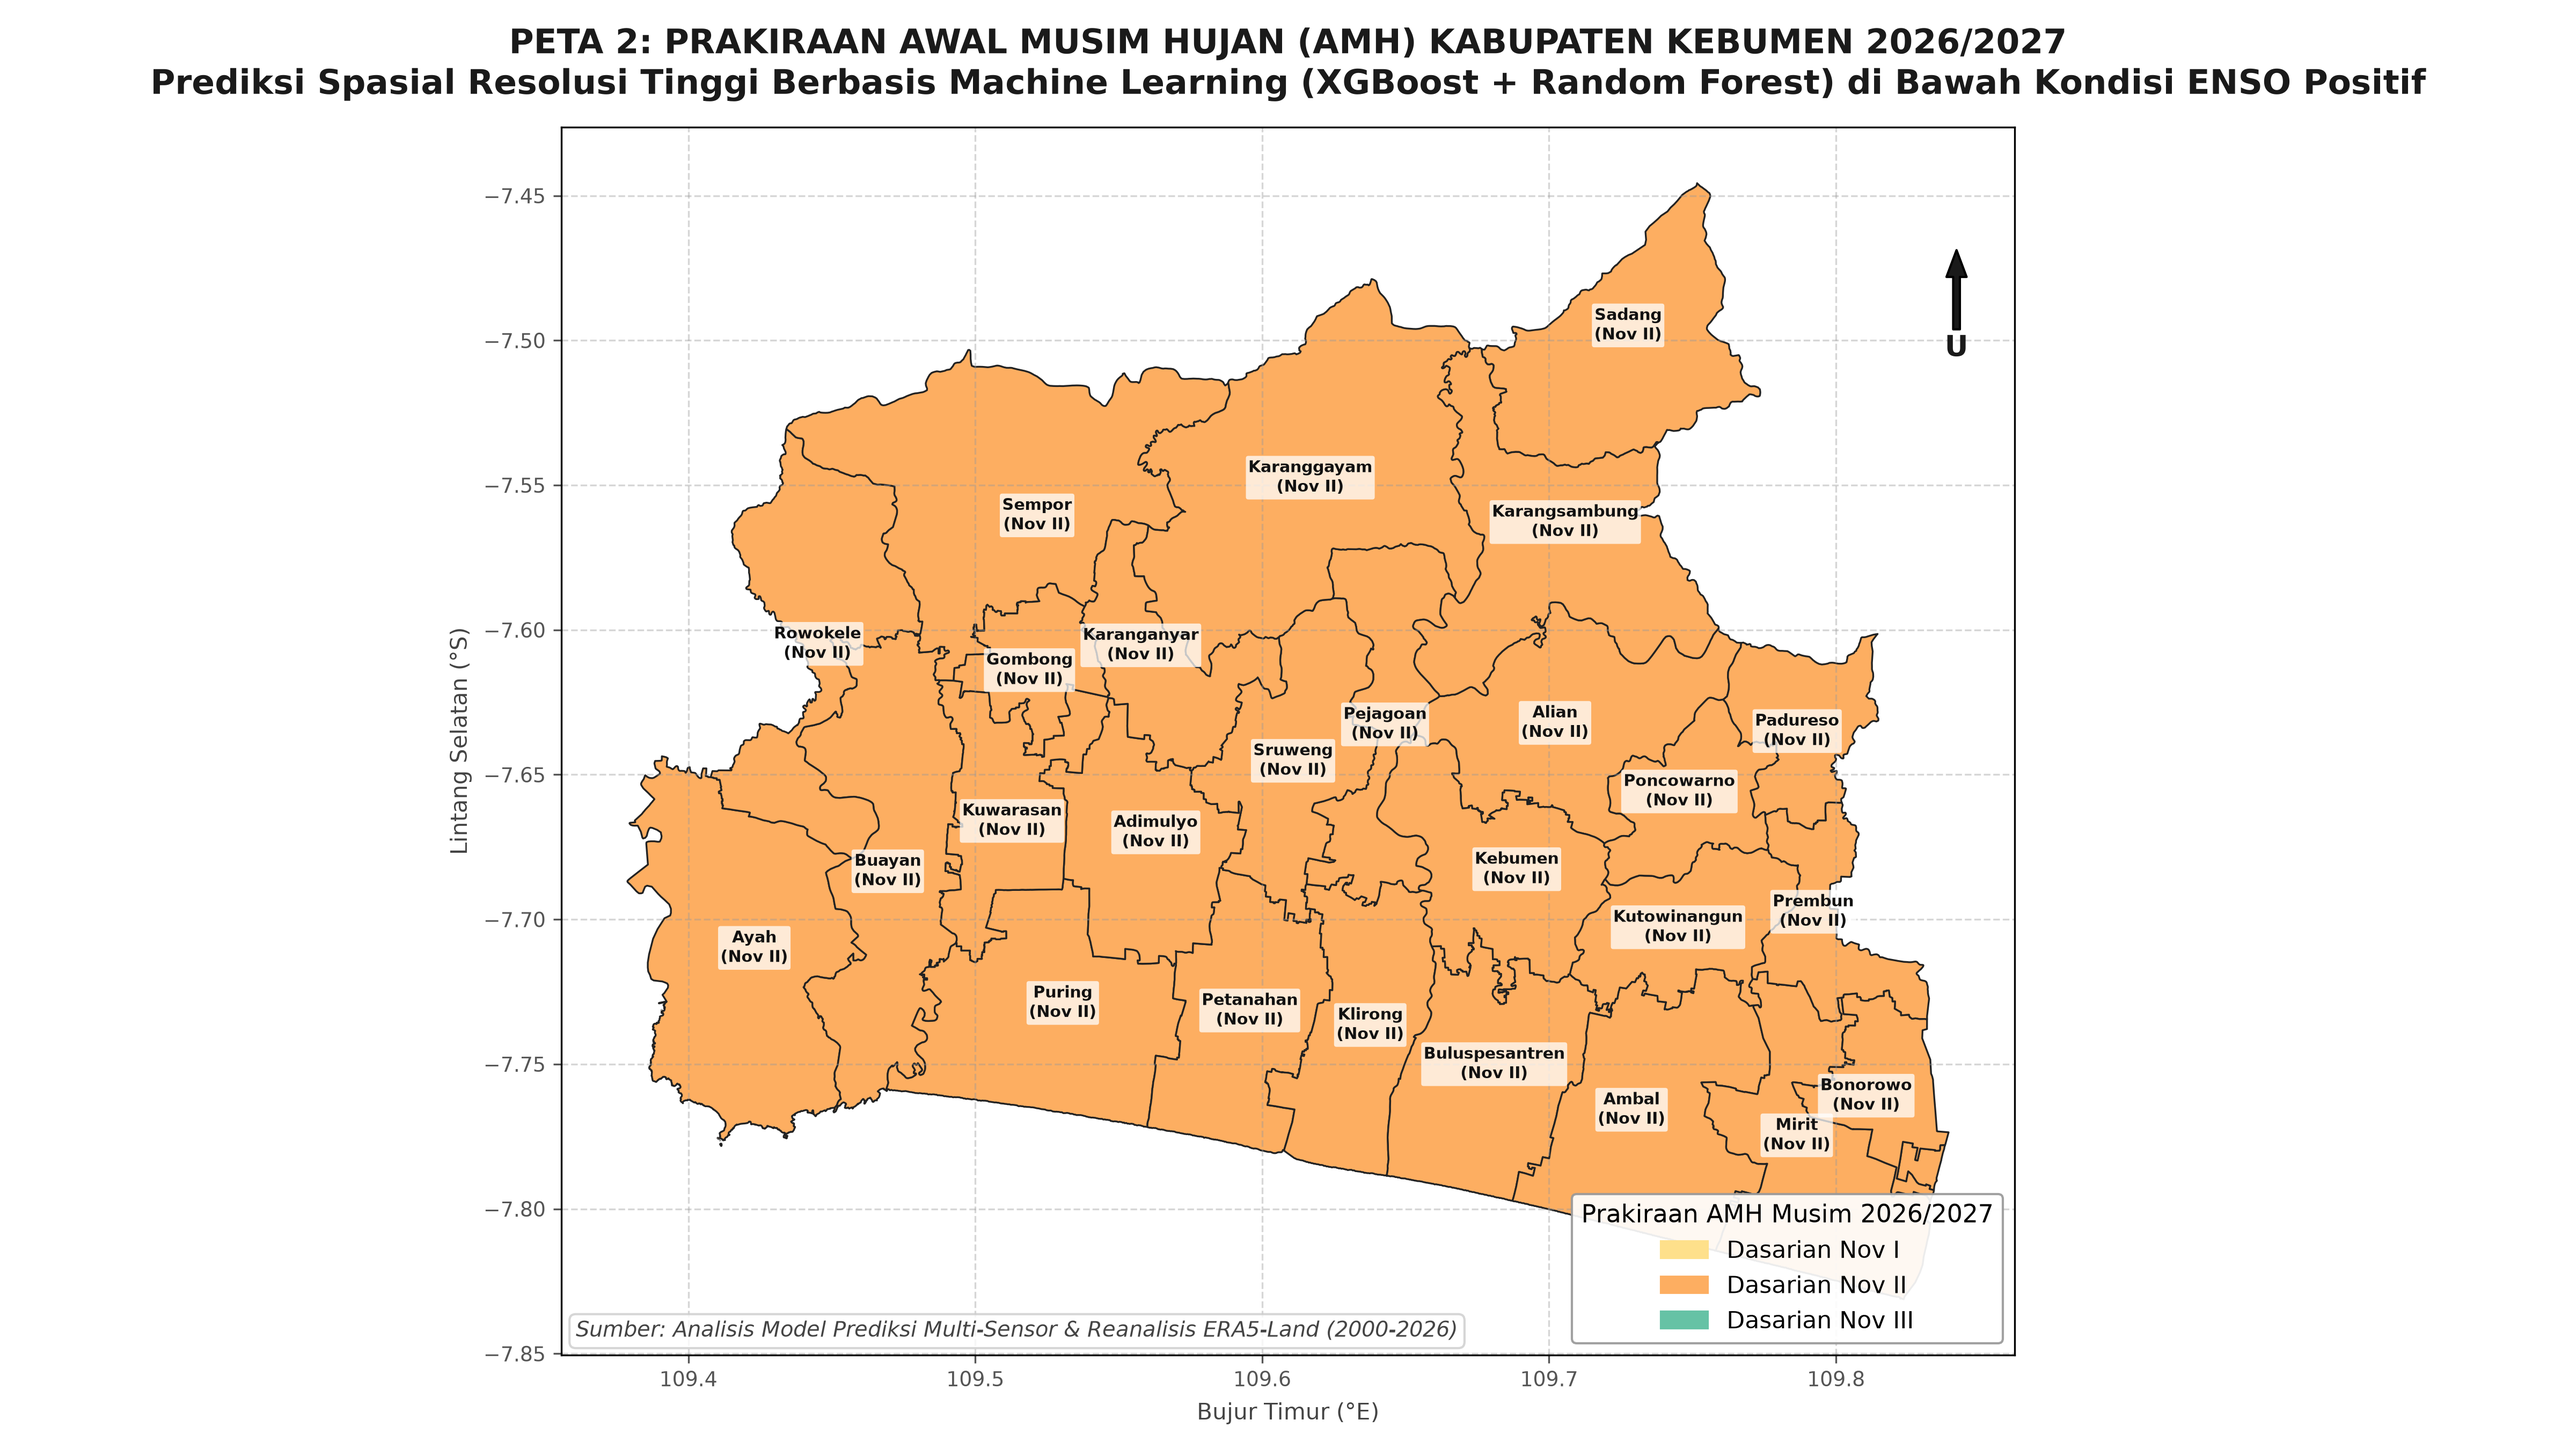
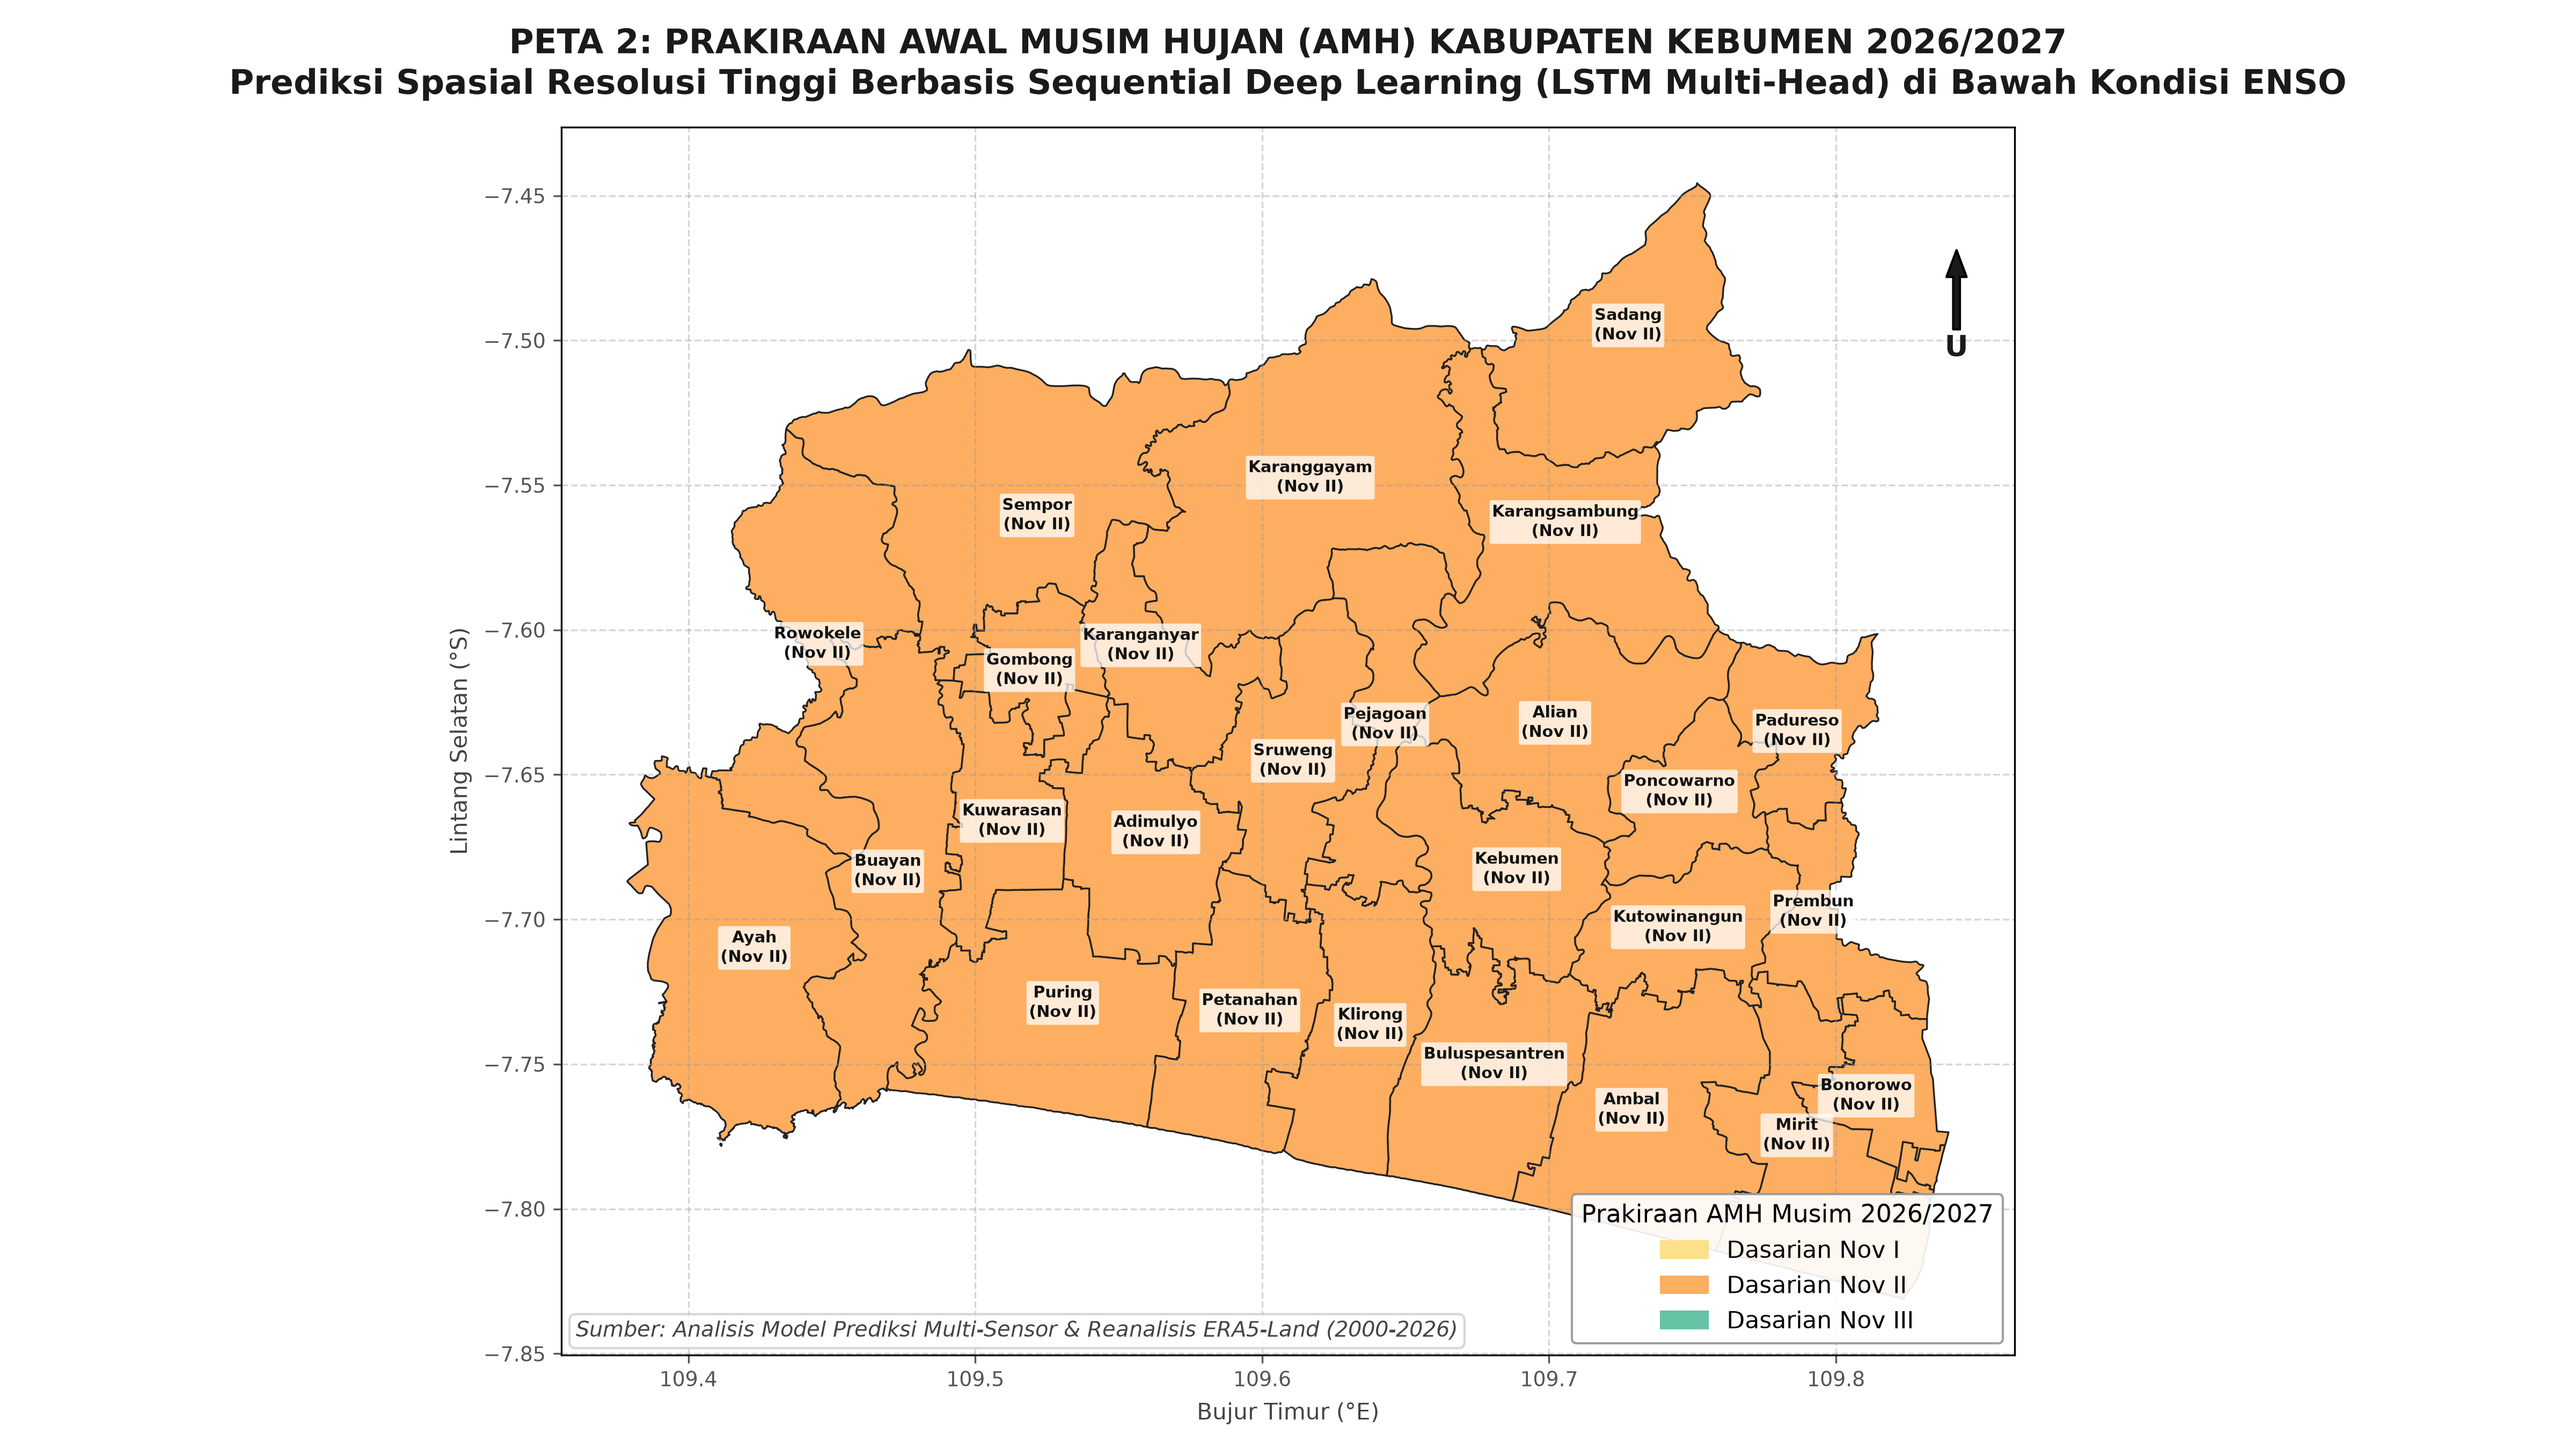
fix(prediksi_musim): Update subtitle Peta 2 menjadi LSTM Multi-Head

Changed region(s): [[0.0625, 0.0311, 0.9375, 0.0933]]

diff --git a/prediksi_musim/visualisasi_peta.py b/prediksi_musim/visualisasi_peta.py
@@ -150,7 +150,7 @@ def plot_peta_2_prakiraan_amh(gdf):
     
     add_decorations(ax, 
                     "PETA 2: PRAKIRAAN AWAL MUSIM HUJAN (AMH) KABUPATEN KEBUMEN 2026/2027", 
-                    "Prediksi Spasial Resolusi Tinggi Berbasis Machine Learning (XGBoost + Random Forest) di Bawah Kondisi ENSO Positif")
+                    "Prediksi Spasial Resolusi Tinggi Berbasis Sequential Deep Learning (LSTM Multi-Head) di Bawah Kondisi ENSO")
     
     plt.tight_layout()
     out_file = PLOTS_DIR / "Peta_2_Prakiraan_AMH_2026_2027.png"
